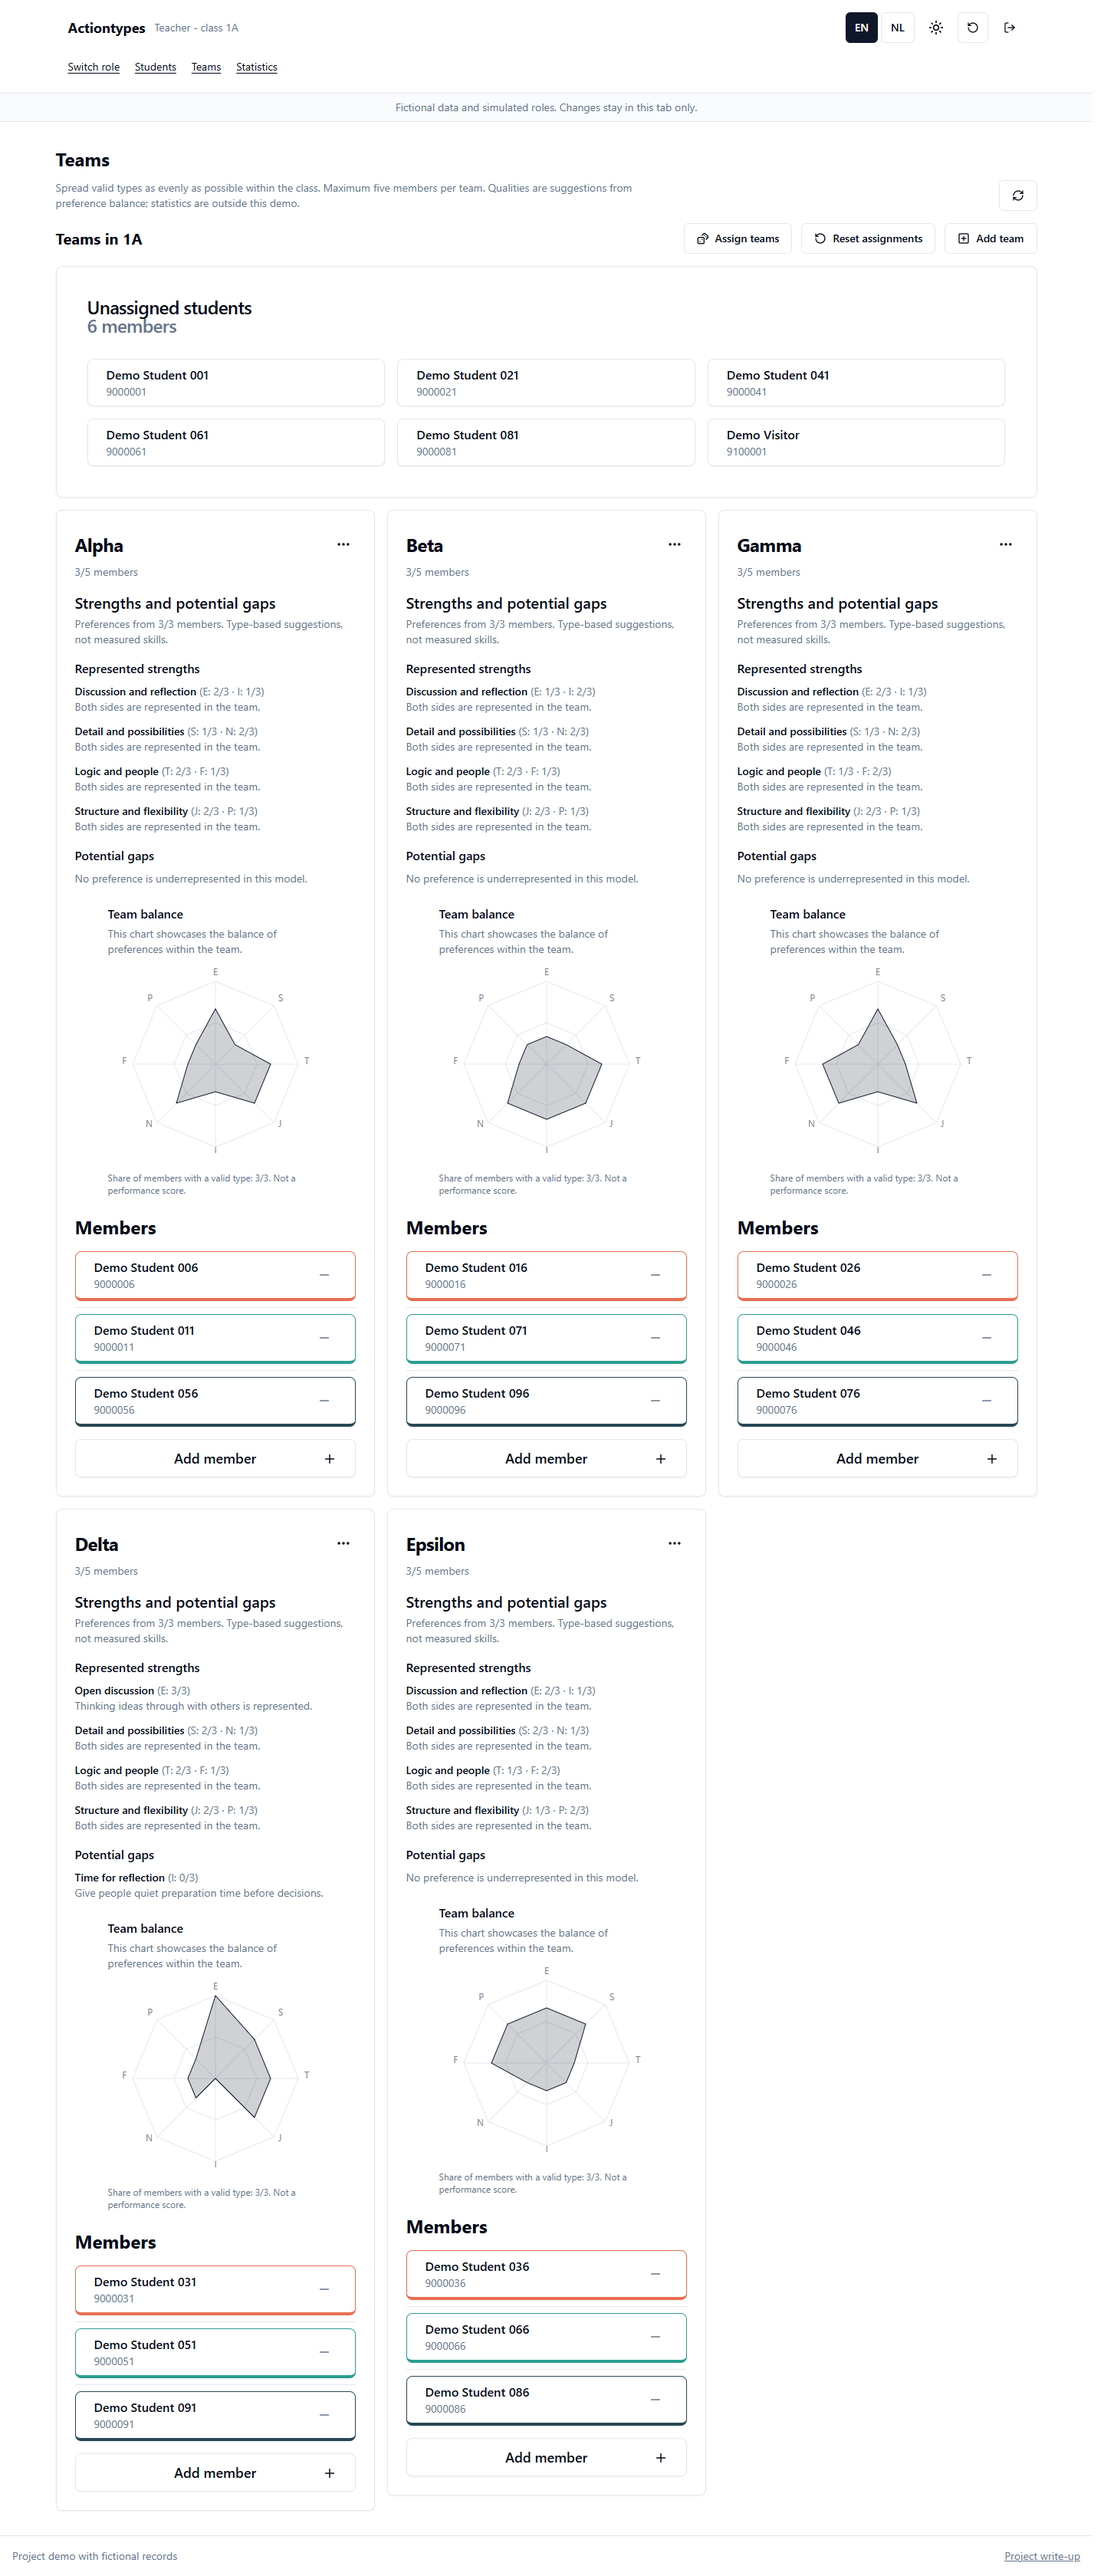
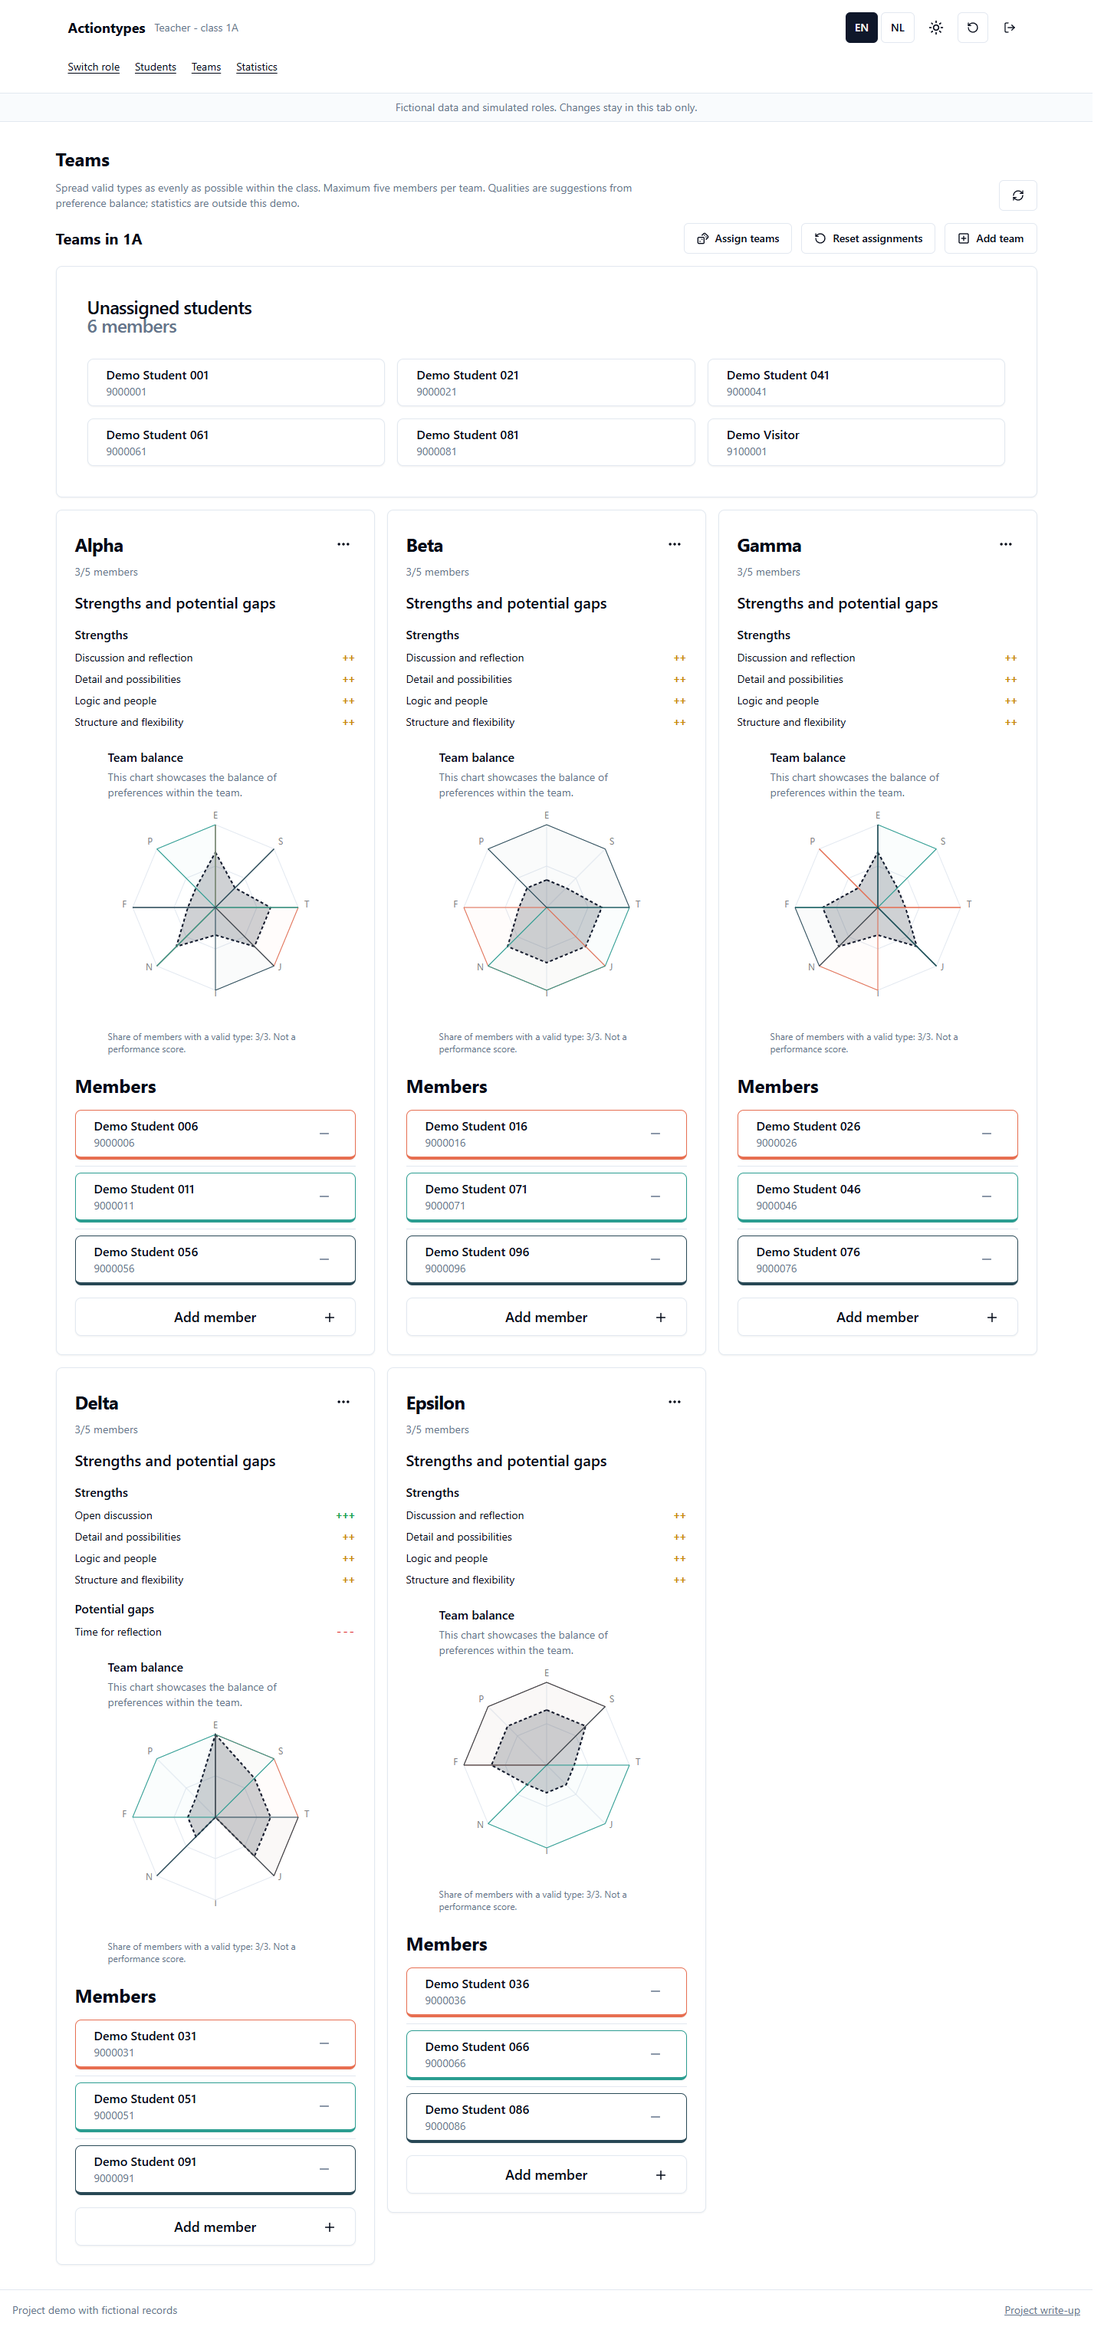
Refresh Actiontypes team grades and hover illustration

diff --git a/projects/actiontypes/README.md b/projects/actiontypes/README.md
@@ -41,9 +41,9 @@ Automatic assignment runs within a class. It spreads the existing four heuristic
 
 ## What the charts and qualities mean
 
-The radar now shows actual preference shares among members with valid types. Its purpose is to showcase the balance of the team; it does not invent preference-intensity scores.
+The radar shows actual preference shares among members with valid types. Its purpose is to showcase team balance. Colored student layers match their member cards: hovering either highlights the other, and keyboard focus on a card highlights the student's chart profile. The dashed aggregate shape stays unchanged; there are no random preference-intensity scores.
 
-The qualities panel derives represented strengths and potential gaps from that composition. It shows the supporting counts and a practical discussion prompt for an underrepresented preference. Missing or invalid types are excluded, and coverage is shown. The rules are documented project heuristics, not validated psychometric thresholds or evidence of a person's skills. This follows the distinction between preferences and abilities in [the Myers & Briggs Foundation's guidance](https://www.myersbriggs.org/type-in-my-life/personality-type-and-organizations/).
+The qualities panel derives strengths and potential gaps from that composition, with compact color-coded `+`/`++`/`+++` and `-`/`--`/`---` grades for quick scanning. Supporting counts are available on hover. Missing or invalid types are excluded. The rules are documented project heuristics, not validated psychometric thresholds or evidence of a person's skills. This follows the distinction between preferences and abilities in [the Myers & Briggs Foundation's guidance](https://www.myersbriggs.org/type-in-my-life/personality-type-and-organizations/).
 
 The shared qualities/radar feature is also applied to the original Actiontypes source copy. The demo's connected management APIs and role-entry flow remain part of the separate demo version; the original application's database was not modified.
 
